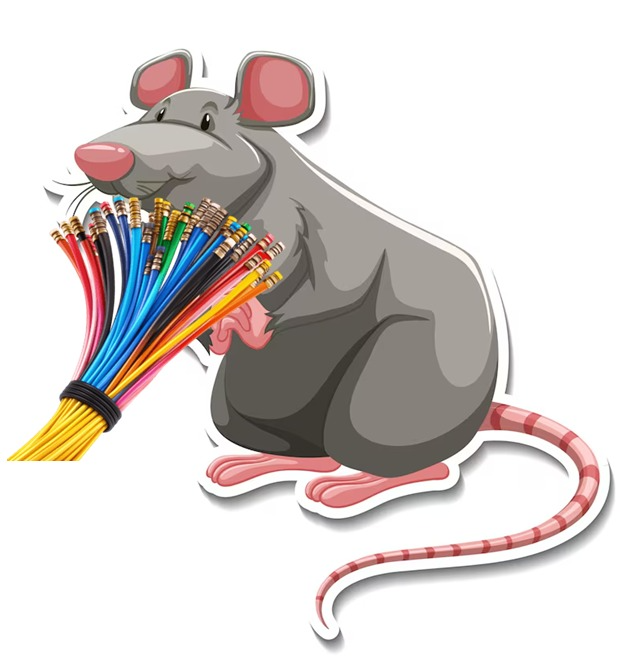
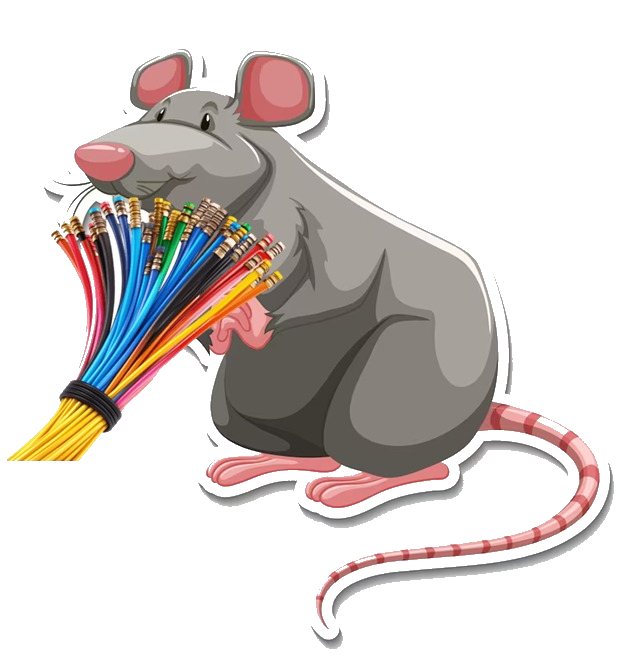
Combate Tropas y Loros

diff --git a/src/enemies/loro.js b/src/enemies/loro.js
@@ -12,11 +12,16 @@ export default class Loro extends Phaser.GameObjects.PathFollower {
         this.vida = vida;
         this.type = type; // ESTE ES EL TIPO DE LORO, SERA CLASIFICADO COMO R,B,G.   R critico a G, G critico a B, B critico a R
         this.moneyDrop = moneyDrop;
+
+        //cosas combate loro
+        this.isFighting = false; 
+        this.currentEnemy = null; 
+
         this.setScale(0.5);
 
         this.criticoSonido = this.scene.sound.add('Critico', { volume: 0.5 });
-
-        
+        // this.stopMovement = () => this.pauseFollow();
+        // this.resumeMovement = () => this.resumeFollow();
     }
 
     create() {
@@ -61,7 +66,7 @@ export default class Loro extends Phaser.GameObjects.PathFollower {
                 this.scene.time.addEvent({
                     delay : 200,
                     callback: () => {
-                        this.clearTint();
+                        if (this.active) this.clearTint();
                     }
                 })
             }
@@ -69,6 +74,24 @@ export default class Loro extends Phaser.GameObjects.PathFollower {
             console.log (`Vida restante: ${this.vida}`);
         }
     }
+    getPhysycalDamage(amount){
+        if(!this.active) return; 
+        this.vida -=amount; 
+
+        this.setTint(0xff999999);
+
+        this.scene.time.addEvent({
+            delay: 150,
+            callback:() => {
+                if (this.active) this.clearTint();
+            }
+        })
+
+        this.checkAlive();
+
+    }
+
+
 
         getPoisoned(damage, ticks, interval, bulletType) {
         for (let i = 0; i < ticks; i++){
@@ -118,6 +141,13 @@ export default class Loro extends Phaser.GameObjects.PathFollower {
         }
         else if (this.vida <= 0) {
             console.log(`${this.nombre} ha muerto`);
+            //si estaba luchando
+            if (this.isFighting && this.currentEnemy){
+                //hace que el enemigo resete loss valores y que siga caminando
+                this.currentEnemy.currentEnemy = null; 
+                this.currentEnemy.isFighting = false; 
+                this.currentEnemy.startWalking();
+            }
             if (this.active){ //evitar crasheos
                 this.scene.changeLevelMoney(this.moneyDrop); //esto da problemas por ahora
                 this.scene.writeLevelMoney();
@@ -138,6 +168,16 @@ export default class Loro extends Phaser.GameObjects.PathFollower {
                 console.log(`${this.nombre} ha llegado al final del path!`);
             }
         });
+    }
+
+    startWalking() {
+    if (!this.active) return;
+    this.resumeFollow();
+    }
+
+    stopWalking() {
+        if (!this.active) return;
+        this.pauseFollow();
     }
 
 }

diff --git a/src/tropas/TropaBase.js b/src/tropas/TropaBase.js
@@ -11,11 +11,18 @@ export default class Tropa extends Phaser.GameObjects.PathFollower {
         this.speed = speed;
         this.vida = vida;
         this.type = type; // ESTE ES EL TIPO DE LORO, SERA CLASIFICADO COMO R,B,G.   R critico a G, G critico a B, B critico a R
+        //combate tropas
+        this.isFighting = false; 
+        this.hasDied = false;
+        this.currentEnemy = null; 
+        
         this.setScale(scale);
 
         this.criticoSonido = this.scene.sound.add('Critico', { volume: 0.5 });
 
         this.startFollowingReversed();
+        //this.stopMovement = () => this.pauseFollow();
+        //this.resumeMovement = () => this.resumeFollow();
     }
 
     create() {
@@ -60,7 +67,7 @@ export default class Tropa extends Phaser.GameObjects.PathFollower {
                 this.scene.time.addEvent({
                     delay: 200,
                     callback: () => {
-                        this.clearTint();
+                       if (this.active) this.clearTint();
                     }
                 })
             }
@@ -68,12 +75,27 @@ export default class Tropa extends Phaser.GameObjects.PathFollower {
             console.log(`Vida restante: ${this.vida}`);
         }
     }
+    getPhysycalDamage(amount){
+        if(!this.active) return; 
+
+        this.vida -=amount; 
+        this.setTint(0xffFF0000);
+
+        this.scene.time.addEvent({
+            delay: 150,
+            callback:() => {
+                if (this.active) this.clearTint();
+            }
+        })
+
+        this.checkAlive();
+
+    }
 
     getHealed(heal){
         this.vida+=heal;
         console.log("Me he curado");
     }
-
     checkAlive(reachedEnd = false) {
         if (reachedEnd) {
             this.stopFollow();
@@ -84,7 +106,6 @@ export default class Tropa extends Phaser.GameObjects.PathFollower {
             this.stopFollow();
             this.destroy();
         }
-
     }
 
     startFollowingReversed() {
@@ -100,6 +121,16 @@ export default class Tropa extends Phaser.GameObjects.PathFollower {
                 console.log("speed: " + this.speed);
             }
         });
+    }
+
+    startWalking() {
+        if (!this.active) return;
+        this.resumeFollow();
+    }
+
+    stopWalking() {
+        if (!this.active) return;
+        this.pauseFollow();
     }
 
 }

diff --git a/src/scenes/Level1.js b/src/scenes/Level1.js
@@ -214,6 +214,57 @@ export default class Level1 extends Phaser.Scene {
                 bullet.heal(tropa);
             }
         });
+        
+         //Colisiones tropas con loros
+        this.physics.add.overlap(this.tropas, this.enemies, (tropa, loro) =>{
+            
+            //Si uno ya no existe/destruye, ignorar
+            if (!tropa || !loro) return; 
+            if (!tropa.active || !loro.active) return; 
+
+            //Si ya se esetan pegando con otro, ignorar
+            if(tropa.isFighting && tropa.currentEnemy !==loro ) return;
+            if(loro.isFighting && loro.currentEnemy !== tropa) return;
+
+
+            //inicia combate
+            tropa.isFighting = true;
+            loro.isFighting = true;
+
+            tropa.currentEnemy = loro; 
+            loro.currentEnemy = tropa; 
+
+            //Machetazos
+            tropa.stopWalking();
+            loro.stopWalking();
+
+            const now = this.time.now; 
+            const cooldown = 300; 
+            
+            
+            if (!tropa.lastAttackTime) tropa.lastAttackTime = 0;
+            if (!loro.lastAttackTime) loro.lastAttackTime = 0;
+
+            if (now - tropa.lastAttackTime >= cooldown) {
+                tropa.getPhysycalDamage(loro.damage);
+                loro.getPhysycalDamage(tropa.damage);
+
+                tropa.lastAttackTime = now;
+                loro.lastAttackTime = now;
+            }
+            
+            //resultado de batalla (movimiento)
+            if (!tropa.active || tropa.hasDied){
+                loro.isFighting = false; 
+                loro.currentEnemy = null; 
+                loro.startWalking();
+            }
+            if (!loro.active || loro.hasDied){
+                tropa.isFighting = false;
+                tropa.currentEnemy = null; 
+                tropa.startWalking(); 
+            }
+        })
     }
 
     endLevel() {
